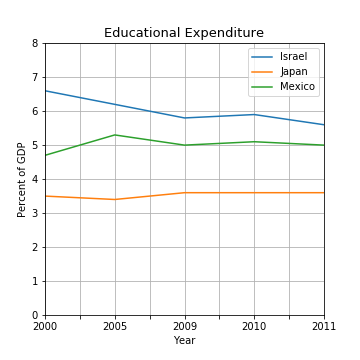
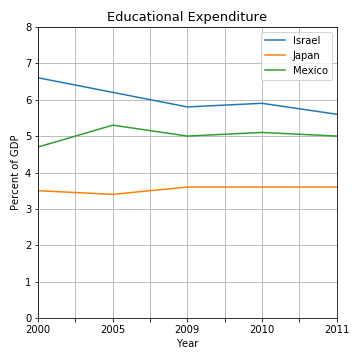
Cleaned up plotting slightly

diff --git a/DSCI.623.01 - Intro to Data Sci Mgmt/Midterm/Combined_Files/Midterm_Plots.py b/DSCI.623.01 - Intro to Data Sci Mgmt/Midterm/Combined_Files/Midterm_Plots.py
@@ -75,17 +75,16 @@ plt.savefig('Plot_Income_Mortality_Terrorism.png')
 plt.tight_layout()
 
 # Education Plot, separate because of difference in time frames
-fig2, ax = plt.subplots(figsize = (5, 5))
 del edu.index.name
-edu.T.plot(kind = 'line', ax = ax)
-ax.set_title('Educational Expenditure', fontsize = 13)
-ax.set_xlim(0, edu.shape[1]-1)
-ax.set_ylim(0, 8)
-ax.set_xlabel('Year')
-ax.set_ylabel('Percent of GDP')
-ax.grid(which = 'major', axis = 'both')
+edu.T.plot(kind = 'line', figsize = (5, 5))
+plt.title('Educational Expenditure', fontsize = 13)
+plt.xlim(0, edu.shape[1]-1)
+plt.ylim(0, 8)
+plt.xlabel('Year')
+plt.ylabel('Percent of GDP')
+plt.grid(which = 'major', axis = 'both')
+plt.tight_layout()
 plt.savefig('Plot_Education.png')
-plt.show()
 
 #######################################
 # PLOT EACH INDIVIDUALLY FOR WRITE-UP #
